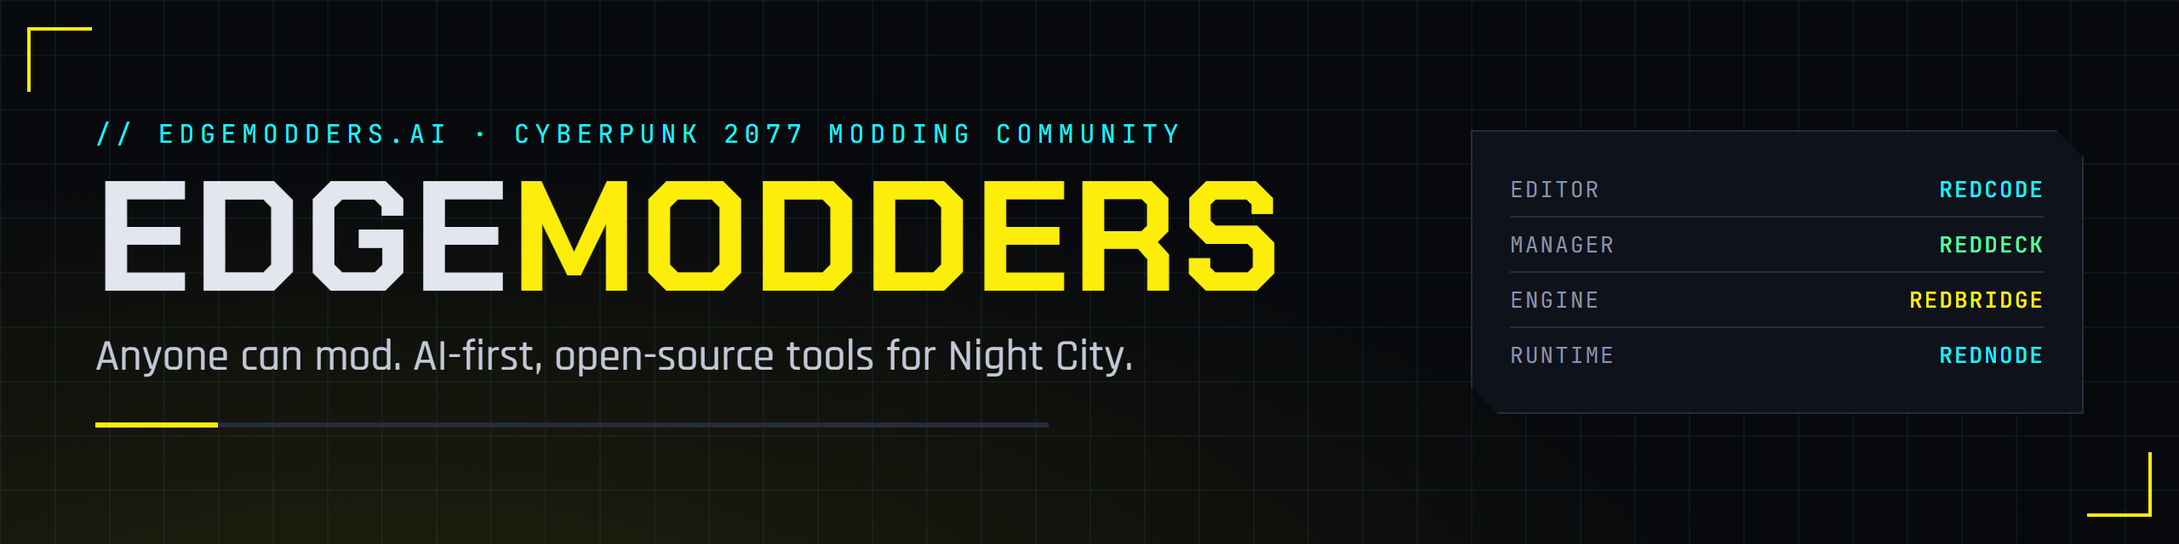
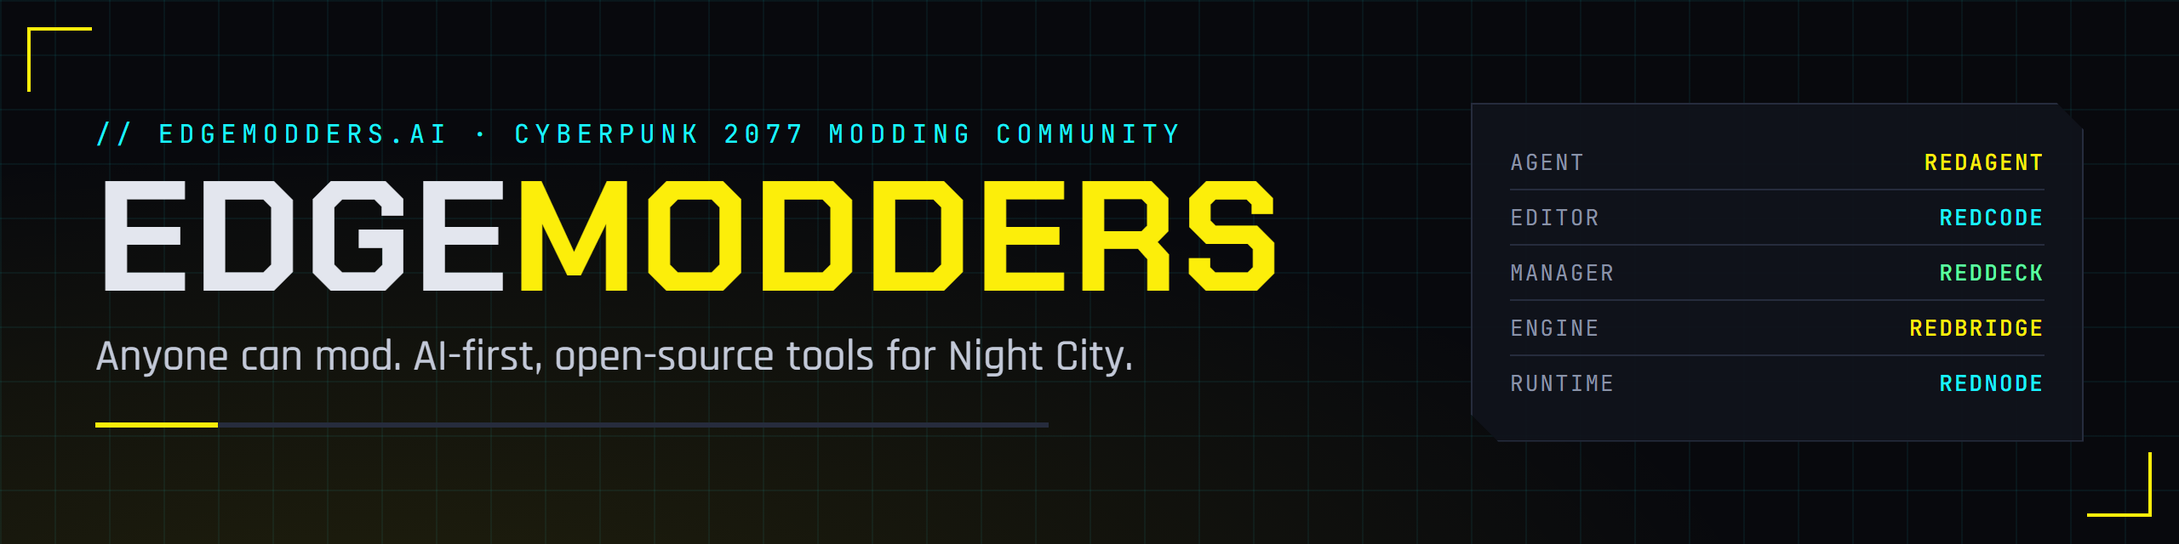
Add REDagent to the site and refresh tool statuses
REDagent, the in-game modding agent powered by Claude, gets a featured
card on the landing page, its own section on the platform page, and a
row in the community and README tool tables. The loop example now
follows REDagent's in-game test. Benefit statuses catch up with REDnode:
agent tooling, isolation and the game API work, hot reload works with
VS Code debugging still to come. Banner and social card list REDagent.

Changed region(s): [[0.875, 0.2812, 0.9375, 0.7188], [0.6875, 0.2812, 0.75, 0.7188]]

diff --git a/docs/platform.html b/docs/platform.html
@@ -14,14 +14,14 @@
 <link rel="preconnect" href="https://fonts.googleapis.com">
 <link rel="preconnect" href="https://fonts.gstatic.com" crossorigin>
 <link href="https://fonts.googleapis.com/css2?family=Chakra+Petch:wght@500;600;700&family=Rajdhani:wght@400;500;600&family=JetBrains+Mono:wght@400;500&display=swap" rel="stylesheet">
-<link rel="stylesheet" href="assets/css/site.css?v=2">
+<link rel="stylesheet" href="assets/css/site.css?v=3">
 </head>
 <body>
 
 <div class="bar"><div class="wrap">
   <span><a href="./" style="color:inherit;text-decoration:none"><span class="dot"></span><b>EDGEMODDERS</b></a> / EDGE PLATFORM</span>
   <nav>
-    <a href="./">Home</a><a href="#benefits">Benefits</a><a href="#redcode">REDcode</a><a href="#reddeck">REDdeck</a><a href="#redbridge">REDbridge</a><a href="#rednode">REDnode</a>
+    <a href="./">Home</a><a href="#benefits">Benefits</a><a href="#redagent">REDagent</a><a href="#redcode">REDcode</a><a href="#reddeck">REDdeck</a><a href="#redbridge">REDbridge</a><a href="#rednode">REDnode</a>
   </nav>
 </div></div>
 
@@ -45,13 +45,14 @@
     <thead><tr><th>Benefit</th><th>What it means for you</th><th>Status</th></tr></thead>
     <tbody>
       <tr><td>Native engine, bare-metal performance<span class="from">REDnode &middot; REDbridge</span></td><td>No emulation layer. REDnode is a native RED4ext plugin that draws with the game's own Direct3D 12 device, and simple rules run inside the game's hooks with no round trip. REDbridge runs WolvenKit's compiled C# engine directly.</td><td><span class="st wip">In progress</span></td></tr>
-      <tr><td>Mod isolation and crash protection<span class="from">REDnode</span></td><td>Mods and overlay apps run in their own process, outside the game. If one crashes, your game keeps running. The small amount of code that must run inside the game is sandboxed and time-limited.</td><td><span class="st wip">In progress</span></td></tr>
+      <tr><td>Mod isolation and crash protection<span class="from">REDnode</span></td><td>Mods and overlay apps run in their own process, outside the game. If one crashes, your game keeps running. Code that must run inside the game will be sandboxed and time-limited.</td><td><span class="st on">Working</span></td></tr>
       <tr><td>HTML overlay apps with a UI kit<span class="from">REDnode</span></td><td>Build in-game windows and HUD widgets with HTML, CSS and JavaScript, styled with a ready-made UI kit. Use any web framework, browser dev tools and npm packages instead of Lua and ImGui.</td><td><span class="st on">Working</span></td></tr>
-      <tr><td>Integrated Claude agent tooling<span class="from">REDbridge &middot; REDdeck</span></td><td>Every tool exposes what it does as calls an AI agent can make. Through MCP, Claude can browse archives, convert files, query TweakDB, pack and deploy, alongside you.</td><td><span class="st plan">Planned</span></td></tr>
-      <tr><td>Real-time hot-loading and live debugging<span class="from">REDnode &middot; REDcode</span></td><td>Change a mod and see it in the running game without a restart. Set breakpoints and evaluate code against the live game from VS Code's debugger.</td><td><span class="st plan">Planned</span></td></tr>
+      <tr><td>Integrated Claude agent tooling<span class="from">REDagent &middot; REDnode</span></td><td>REDagent, powered by Claude, writes, runs and fixes mods with you in a chat inside the game. REDnode's MCP server gives Claude Code on your PC the same tools: mod logs, overlay windows, game types and live game calls. MCP for REDbridge and REDdeck is next.</td><td><span class="st on">Working</span></td></tr>
+      <tr><td>Real-time hot-loading and live debugging<span class="from">REDnode &middot; REDcode</span></td><td>Change a mod and see it in the running game without a restart; hot reload works today. Next: breakpoints and evaluating code against the live game from VS Code's debugger.</td><td><span class="st wip">In progress</span></td></tr>
+      <tr><td>You approve every change<span class="from">REDagent &middot; REDdeck</span></td><td>REDagent shows each file change as a diff and waits for Allow. Every change it makes, and every deploy REDdeck makes, has an Undo.</td><td><span class="st on">Working</span></td></tr>
       <tr><td>Full VS Code and extension ecosystem<span class="from">REDcode &middot; REDdeck</span></td><td>EDGE lives in VS Code, so you keep its editor, Git, themes, AI assistants and thousands of extensions, including the existing redscript tooling.</td><td><span class="st on">Working</span></td></tr>
       <tr><td>WolvenKit compatible<span class="from">REDcode &middot; REDbridge</span></td><td>Opens and builds WolvenKit projects. Game files convert to JSON and back byte for byte, using WolvenKit's own engine. Move between tools freely.</td><td><span class="st on">Working</span></td></tr>
-      <tr><td>Game API built for agents<span class="from">REDnode</span></td><td>A typed API generated from the game's own type system, with a published reference. Agents and people get the same completion and docs, so an assistant writes code against real game types instead of guessing.</td><td><span class="st wip">In progress</span></td></tr>
+      <tr><td>Game API built for agents<span class="from">REDnode &middot; REDagent</span></td><td>A typed API that can call any game function, generated from the game's own type system, with a published reference. REDagent looks functions up and calls the running game, asking you first before anything that could change it.</td><td><span class="st on">Working</span></td></tr>
       <tr><td>Safe, undoable deployment<span class="from">REDdeck</span></td><td>Mods deploy with a manifest of every file placed. One click undoes it. Conflicts are shown even inside mod archives, with who wins and why.</td><td><span class="st on">Working</span></td></tr>
       <tr><td>Open source, community first<span class="from">All toolkits</span></td><td>MIT where we can, GPL-3.0 where WolvenKit requires it. EDGE works alongside RED4ext, Cyber Engine Tweaks, redscript, ArchiveXL and TweakXL.</td><td><span class="st on">Working</span></td></tr>
     </tbody>
@@ -60,8 +61,9 @@
 
 <section id="toolkits">
   <h2><span class="id">02</span>The toolkits</h2><div class="rule"></div>
-  <p>EDGE is four open-source toolkits. Each works alone; together they cover the whole life of a mod.</p>
+  <p>EDGE is five open-source toolkits. Each works alone; together they cover the whole life of a mod.</p>
   <div class="flow">
+    <div><h4>Ask</h4><p>REDagent</p><small>your modding agent</small></div>
     <div><h4>Create</h4><p>REDcode</p><small>edit with your agent</small></div>
     <div><h4>Build</h4><p>REDbridge</p><small>convert, pack</small></div>
     <div><h4>Deploy</h4><p>REDdeck</p><small>install, undo</small></div>
@@ -69,8 +71,33 @@
   </div>
 </section>
 
+<section id="redagent">
+  <h2><span class="id">03</span>Ask REDagent</h2><div class="rule"></div>
+  <div class="kit">
+    <div>
+      <div class="head"><img src="assets/tools/redagent.png" alt=""><div><div class="name">RED<span>agent</span></div><div class="role">The modding agent &middot; powered by Claude</div></div></div>
+      <p>An assistant inside Cyberpunk 2077 that writes, runs, checks and fixes REDnode mods with you, while you play. You talk to it in a chat window drawn over the game.</p>
+      <ul>
+        <li>Ask for a mod in plain words; REDagent writes it and REDnode loads it at once</li>
+        <li>Reads mod logs, overlay windows and the running game to check its work</li>
+        <li>Every file change shown as a diff first: Allow, Allow all, or Deny</li>
+        <li>Undo for every change, with backups kept on your PC</li>
+        <li>Opus for building mods, Sonnet for quick questions; each answer shows its cost</li>
+      </ul>
+      <div class="links"><a href="https://edgemodders.github.io/REDagent/">Docs</a><a href="https://github.com/Edgemodders/REDagent">GitHub</a></div>
+    </div>
+    <div class="shots">
+      <div class="shot"><div><b>Screenshot</b>REDagent chat over the game</div></div>
+      <div class="pair">
+        <div class="shot"><div><b>Screenshot</b>Change card with Allow</div></div>
+        <div class="shot"><div><b>Screenshot</b>The mod it wrote, running</div></div>
+      </div>
+    </div>
+  </div>
+</section>
+
 <section id="redcode">
-  <h2><span class="id">03</span>Create with REDcode</h2><div class="rule"></div>
+  <h2><span class="id">04</span>Create with REDcode</h2><div class="rule"></div>
   <div class="kit">
     <div>
       <div class="head"><img src="assets/tools/redcode.png" alt=""><div><div class="name">RED<span>code</span></div><div class="role">The editor</div></div></div>
@@ -95,7 +122,7 @@
 </section>
 
 <section id="reddeck">
-  <h2><span class="id">04</span>Deploy with REDdeck</h2><div class="rule"></div>
+  <h2><span class="id">05</span>Deploy with REDdeck</h2><div class="rule"></div>
   <div class="kit">
     <div>
       <div class="head"><img src="assets/tools/reddeck.png" alt=""><div><div class="name">RED<span>deck</span></div><div class="role">The mod manager</div></div></div>
@@ -120,7 +147,7 @@
 </section>
 
 <section id="redbridge">
-  <h2><span class="id">05</span>Build with REDbridge</h2><div class="rule"></div>
+  <h2><span class="id">06</span>Build with REDbridge</h2><div class="rule"></div>
   <div class="kit">
     <div>
       <div class="head"><img src="assets/tools/redbridge.png" alt=""><div><div class="name">RED<span>bridge</span></div><div class="role">The engine &amp; agent bridge</div></div></div>
@@ -129,7 +156,7 @@
         <li>Indexes a game install and searches its archives in seconds</li>
         <li>Converts game files to JSON and back, byte for byte</li>
         <li>Decodes textures, resolves hashes, reads mod archives without the game</li>
-        <li>One API for the editor and for AI agents (MCP planned)</li>
+        <li>One API for the editor and for AI agents (MCP next)</li>
       </ul>
       <div class="links"><a href="https://edgemodders.github.io/REDbridge/">Docs</a><a href="https://github.com/Edgemodders/REDbridge">GitHub</a></div>
     </div>
@@ -144,17 +171,18 @@
 </section>
 
 <section id="rednode">
-  <h2><span class="id">06</span>Run with REDnode</h2><div class="rule"></div>
+  <h2><span class="id">07</span>Run with REDnode</h2><div class="rule"></div>
   <div class="kit">
     <div>
       <div class="head"><img src="assets/tools/rednode.png" alt=""><div><div class="name">RED<span>node</span></div><div class="role">The live runtime</div></div></div>
-      <p>The runtime that puts mods in the game. Script Cyberpunk 2077 in TypeScript and JavaScript with npm, and draw HTML apps on top of the game.</p>
+      <p>The runtime that puts mods in the game, and the one REDagent writes for. Script Cyberpunk 2077 in TypeScript and JavaScript with npm, and draw HTML apps on top of the game.</p>
       <ul>
-        <li>HTML overlay apps and HUD widgets, tested in game</li>
+        <li>Node mods with hot reload, beside HTML overlay apps and HUD widgets</li>
         <li>A UI kit in the HUD style, plus the game's own UI sounds</li>
         <li>Overlay host runs outside the game, so a crash can't take it down</li>
-        <li>Game API reference generated from the game's type system</li>
-        <li>Coming: Node mods with hot reload and live debugging</li>
+        <li>A typed game API that calls any game function, with a published reference</li>
+        <li>An MCP server that lets AI agents read logs, see windows and call the game</li>
+        <li>Coming: live debugging from VS Code</li>
       </ul>
       <div class="links"><a href="https://edgemodders.github.io/REDnode/">Docs</a><a href="https://edgemodders.github.io/REDnode/overlay-apps.html">Overlay apps</a><a href="https://github.com/Edgemodders/REDnode">GitHub</a></div>
     </div>
@@ -169,7 +197,7 @@
 </section>
 
 <section id="join" class="join">
-  <h2><span class="id">07</span>Build it with us</h2><div class="rule"></div>
+  <h2><span class="id">08</span>Build it with us</h2><div class="rule"></div>
   <p class="big">Bring your <span>mod ideas.</span></p>
   <p>Veterans and beginners alike: try the toolkits, tell us what's missing, and help shape EDGE.</p>
   <div class="cta">

diff --git a/docs/index.html b/docs/index.html
@@ -14,7 +14,7 @@
 <link rel="preconnect" href="https://fonts.googleapis.com">
 <link rel="preconnect" href="https://fonts.gstatic.com" crossorigin>
 <link href="https://fonts.googleapis.com/css2?family=Chakra+Petch:wght@500;600;700&family=Rajdhani:wght@400;500;600&family=JetBrains+Mono:wght@400;500&display=swap" rel="stylesheet">
-<link rel="stylesheet" href="assets/css/site.css?v=2">
+<link rel="stylesheet" href="assets/css/site.css?v=3">
 </head>
 <body>
 
@@ -75,31 +75,38 @@
 
 <section id="loop">
   <h2><span class="id">03</span>The loop</h2><div class="rule"></div>
-  <p>Every EDGEmodders tool exposes what it does as text and as calls an AI assistant can make. Here's the kind of session the toolkit is built for:</p>
+  <p>Every EDGEmodders tool exposes what it does as text and as calls an AI agent can make. Here's a session with REDagent, the assistant inside the game:</p>
   <div class="term" role="figure" aria-label="Example session between a modder and an AI assistant">
     <div class="who you">&gt; you</div>
-    <p class="say">Make Mantis Blades do 50% more damage, and give the mod a name I can share.</p>
-    <div class="who ai">&gt; assistant</div>
-<div class="step"><i>01</i> <u>tweakdb.query</u>   Items.MantisBlades*          <b>found 6 records</b>
-<i>02</i> <u>write</u>           tweaks/sharper-mantis.yaml   <b>damage × 1.5</b>
-<i>03</i> <u>modkit.pack</u>     sharper-mantis               <b>packed</b>
-<i>04</i> <u>reddeck.deploy</u>  sharper-mantis  on           <b>1 mod deployed, 0 conflicts</b></div>
-    <p class="say">Done. "Sharper Mantis" is on. Load a save and try it. Say the word and I'll undo it.</p>
+    <p class="say">Make a mod that shows a warning when V's health drops below 30%.</p>
+    <div class="who ai">&gt; redagent</div>
+<div class="step"><i>01</i> <u>gameapi_lookup</u>  player health          <b>found the health functions</b>
+<i>02</i> <u>write</u>           low-health/main.mjs     <b>you pressed Allow</b>
+<i>03</i> <u>apps</u>            low-health              <b>loaded by hot reload</b>
+<i>04</i> <u>logs</u>            low-health              <b>running, no errors</b></div>
+    <p class="say">Done. Your low-health warning is running. Take some damage to see it, or press Undo to remove it.</p>
   </div>
-  <p class="note">// Illustrative. The calls are the shape of the REDbridge and REDdeck APIs; the full loop is still being built.</p>
+  <p class="note">// Simplified from REDagent's in-game test on 2026-10-12. The tool names are REDagent's real tools.</p>
 
   <div class="steps" style="margin-top:22px">
     <div class="panel"><h3>Describe it</h3><p>Plain words. No file formats, no jargon.</p></div>
-    <div class="panel"><h3>Build it together</h3><p>Your assistant works in the same project you can see in REDcode.</p></div>
-    <div class="panel"><h3>Try it live</h3><p>Deploy to the game, and with REDnode, change it while it runs.</p></div>
+    <div class="panel"><h3>Build it together</h3><p>REDagent writes it while you play, or works beside you in REDcode.</p></div>
+    <div class="panel"><h3>Try it live</h3><p>REDnode loads it into the running game. Change it without a restart.</p></div>
     <div class="panel"><h3>Share it</h3><p>Pack it, publish it, and help the next modder start.</p></div>
   </div>
 </section>
 
 <section id="tools">
   <h2><span class="id">04</span>The toolkit</h2><div class="rule"></div>
-  <p>Four open-source projects that work alone and work better together. Each one has its own docs site.</p>
+  <p>Five open-source projects that work alone and work better together. Each one has its own docs site.</p>
   <div class="grid g2">
+
+    <article class="panel tool feature">
+      <div class="head"><img src="assets/tools/redagent.png" alt=""><div><div class="name">RED<span>agent</span> <span class="tag y new">New</span></div><div class="role">The modding agent &middot; powered by Claude</div></div></div>
+      <p>An AI assistant inside Cyberpunk 2077. Ask for a mod in a chat window over the game, and REDagent writes it, runs it, reads its log, checks the game's answers and fixes what's wrong, while you play. Every change is shown to you first and can be undone. Uses your own Anthropic API key.</p>
+      <div class="status"><b class="g">Status:</b> writes and fixes mods in game; early developer build</div>
+      <div class="links"><a href="https://edgemodders.github.io/REDagent/">Docs</a><a href="https://github.com/Edgemodders/REDagent">GitHub</a></div>
+    </article>
 
     <article class="panel tool">
       <div class="head"><img src="assets/tools/redcode.png" alt=""><div><div class="name">RED<span>code</span></div><div class="role">The editor</div></div></div>
@@ -124,8 +131,8 @@
 
     <article class="panel tool">
       <div class="head"><img src="assets/tools/rednode.png" alt=""><div><div class="name">RED<span>node</span></div><div class="role">The live runtime</div></div></div>
-      <p>Script Cyberpunk 2077 in TypeScript and JavaScript with npm, and build in-game HTML overlay apps. Mods attach to the running game, reload without a restart, and can be debugged live from VS Code.</p>
-      <div class="status"><b class="y">Status:</b> HTML overlay apps run in game; Node mod runtime in progress</div>
+      <p>Script Cyberpunk 2077 in TypeScript and JavaScript with npm, and build in-game HTML overlay apps. Mods attach to the running game and reload without a restart. Live debugging from VS Code is next.</p>
+      <div class="status"><b class="g">Status:</b> Node mods, overlay apps and the MCP server for agents run in game</div>
       <div class="links"><a href="https://edgemodders.github.io/REDnode/">Docs</a><a href="https://edgemodders.github.io/REDnode/design.html">Design</a><a href="https://github.com/Edgemodders/REDnode">GitHub</a></div>
     </article>
 
@@ -133,7 +140,7 @@
 
   <h3 style="margin-top:32px">How they fit</h3>
   <div class="flow">
-    <div><h4>Describe</h4><p>You and your assistant</p><small>Claude, over MCP</small></div>
+    <div><h4>Describe</h4><p>You + REDagent</p><small>Claude, over MCP</small></div>
     <div><h4>Edit</h4><p>REDcode</p><small>project, game files as JSON</small></div>
     <div><h4>Build</h4><p>REDbridge</p><small>WolvenKit engine: convert, pack</small></div>
     <div><h4>Play</h4><p>REDdeck + REDnode</p><small>deploy, undo, live reload</small></div>
@@ -160,7 +167,7 @@
   <div class="grid g3">
     <div class="panel"><h3>Players with ideas</h3><p>Never modded? Perfect. Try the tools, tell us where you got stuck, and share what you made.</p></div>
     <div class="panel"><h3>Modders</h3><p>Bring your knowledge of the game's files and frameworks. Help us get the details right and teach the AI to work the way you do.</p></div>
-    <div class="panel"><h3>Tool builders</h3><p>TypeScript, C#, VS Code, MCP. Pick an issue in any of the four repos and send a pull request.</p></div>
+    <div class="panel"><h3>Tool builders</h3><p>TypeScript, C#, VS Code, MCP. Pick an issue in any of the five repos and send a pull request.</p></div>
   </div>
   <div class="cta">
     <a class="btn go ico" href="https://discord.gg/63qP3Erw43"><svg width="16" height="16" viewBox="0 0 24 24" aria-hidden="true"><path fill="currentColor" d="M20.317 4.37a19.8 19.8 0 0 0-4.885-1.515.074.074 0 0 0-.079.037c-.21.375-.444.865-.608 1.25a18.27 18.27 0 0 0-5.487 0 12.64 12.64 0 0 0-.617-1.25.077.077 0 0 0-.079-.037A19.74 19.74 0 0 0 3.677 4.37a.07.07 0 0 0-.032.027C.533 9.046-.32 13.58.099 18.058a.082.082 0 0 0 .031.056 19.9 19.9 0 0 0 5.993 3.03.078.078 0 0 0 .084-.028c.462-.63.874-1.295 1.226-1.994a.076.076 0 0 0-.041-.106 13.1 13.1 0 0 1-1.872-.892.077.077 0 0 1-.008-.128c.126-.094.252-.192.372-.291a.074.074 0 0 1 .078-.01c3.927 1.793 8.18 1.793 12.061 0a.074.074 0 0 1 .079.009c.12.099.246.198.373.292a.077.077 0 0 1-.007.128c-.598.349-1.22.645-1.873.891a.077.077 0 0 0-.041.107c.36.698.772 1.363 1.225 1.993a.076.076 0 0 0 .084.029 19.84 19.84 0 0 0 6.002-3.03.077.077 0 0 0 .032-.055c.5-5.177-.838-9.674-3.549-13.66a.061.061 0 0 0-.031-.029zM8.02 15.331c-1.182 0-2.157-1.086-2.157-2.42 0-1.332.956-2.418 2.157-2.418 1.21 0 2.176 1.095 2.157 2.419 0 1.333-.956 2.419-2.157 2.419zm7.975 0c-1.183 0-2.157-1.086-2.157-2.42 0-1.332.955-2.418 2.157-2.418 1.21 0 2.176 1.095 2.157 2.419 0 1.333-.946 2.419-2.157 2.419z"/></svg>Join our Discord</a>

diff --git a/docs/assets/css/site.css b/docs/assets/css/site.css
@@ -103,7 +103,7 @@ code { font-family: var(--mono); font-size: .8em; color: var(--yellow); backgrou
 .tool .links a:hover { text-decoration: underline; }
 
 /* how the tools fit */
-.flow { display: grid; grid-template-columns: repeat(4, 1fr); gap: 0; margin-bottom: 14px; }
+.flow { display: grid; grid-auto-flow: column; grid-auto-columns: 1fr; gap: 0; margin-bottom: 14px; }
 .flow > div { background: var(--panel); border: 1px solid var(--line); padding: 14px; min-width: 0; position: relative; }
 .flow > div + div { border-left: 0; }
 .flow h4 { margin: 0 0 6px; font-family: var(--mono); font-size: 11px; letter-spacing: .16em; text-transform: uppercase; font-weight: 500; color: var(--yellow); }
@@ -122,7 +122,7 @@ footer { margin-top: 64px; padding-top: 16px; border-top: 1px solid var(--line);
 footer p { margin: 0; max-width: 90ch; }
 
 @media (max-width: 760px) {
-  .flow { grid-template-columns: 1fr; }
+  .flow { grid-auto-flow: row; }
   .flow > div + div { border-left: 1px solid var(--line); border-top: 0; }
   .flow > div:not(:last-child)::after { content: "▼"; right: 50%; top: auto; bottom: -9px; transform: translateX(50%); }
 }
@@ -169,3 +169,5 @@ footer { align-items: center; }
 footer .brandline { display: flex; flex-wrap: wrap; align-items: center; gap: 10px 16px; }
 .btn.ico { display: inline-flex; align-items: center; gap: 10px; }
 .btn.ico svg { width: 18px; height: 18px; flex: none; }
+.tool.feature { grid-column: 1 / -1; border-color: rgba(252,238,10,.45); background: linear-gradient(180deg, rgba(252,238,10,.06), var(--panel)); }
+.tool .tag.new { font-size: 11px; vertical-align: middle; margin-left: 6px; position: relative; top: -4px; }

diff --git a/tools/brand/brand.html b/tools/brand/brand.html
@@ -66,7 +66,7 @@ h1 span { color: var(--yellow); }
 .panel .row:last-child { border-bottom: 0; }
 .panel b { font-weight: 500; }
 .y { color: var(--yellow); } .c { color: var(--cyan); } .g { color: var(--green); }
-.social .panel { display: grid; grid-template-columns: repeat(4, 1fr); gap: 0 28px; font-size: 15px; }
+.social .panel { display: grid; grid-template-columns: repeat(5, 1fr); gap: 0 24px; font-size: 15px; }
 .social .panel .row { border-bottom: 0; flex-direction: column; gap: 4px; }
 </style>
 </head>
@@ -79,6 +79,7 @@ h1 span { color: var(--yellow); }
     <div class="rule"></div>
   </div>
   <div class="panel">
+    <div class="row"><span>Agent</span><b class="y">REDagent</b></div>
     <div class="row"><span>Editor</span><b class="c">REDcode</b></div>
     <div class="row"><span>Manager</span><b class="g">REDdeck</b></div>
     <div class="row"><span>Engine</span><b class="y">REDbridge</b></div>

diff --git a/CLAUDE.md b/CLAUDE.md
@@ -1,6 +1,6 @@
 # EDGEweb: notes for Claude sessions
 
-EDGEweb is the website for https://edgemodders.ai, the home of EDGEmodders: a new Cyberpunk 2077 modding community whose message is **"Anyone can mod"**. AI assistants (Claude first) make modding possible for people without coding or modding skills. The site is a landing page that pitches the four tools and links to their Pages sites. It is one of five repos by the same owner: REDnode (runtime), REDcode (IDE), REDbridge (engine host, GPL-3.0), REDdeck (mod manager) and this one. REDnode's `CLAUDE.md` sets the shared conventions.
+EDGEweb is the website for https://edgemodders.ai, the home of EDGEmodders: a new Cyberpunk 2077 modding community whose message is **"Anyone can mod"**. AI assistants (Claude first) make modding possible for people without coding or modding skills. The site is a landing page that pitches the five tools and links to their Pages sites. It is one of six repos by the same owner: REDagent (in-game modding agent), REDnode (runtime), REDcode (IDE), REDbridge (engine host, GPL-3.0), REDdeck (mod manager) and this one. REDnode's `CLAUDE.md` sets the shared conventions.
 
 ## Site
 

diff --git a/README.md b/README.md
@@ -10,10 +10,11 @@
 
 The website for [edgemodders.ai](https://edgemodders.ai/), home of EDGEmodders: a new Cyberpunk 2077 modding community that brings AI to modding, so anyone can mod, not only people who already code.
 
-The site pitches the four EDGEmodders tools and links to their docs:
+The site pitches the five EDGEmodders tools and links to their docs:
 
 | Tool | Role | Docs |
 |---|---|---|
+| [REDagent](https://github.com/Edgemodders/REDagent) | Modding agent inside the game, powered by Claude | [edgemodders.github.io/REDagent](https://edgemodders.github.io/REDagent/) |
 | [REDcode](https://github.com/Edgemodders/REDcode) | Modding IDE on VS Code | [edgemodders.github.io/REDcode](https://edgemodders.github.io/REDcode/) |
 | [REDdeck](https://github.com/Edgemodders/REDdeck) | Mod manager | [edgemodders.github.io/REDdeck](https://edgemodders.github.io/REDdeck/) |
 | [REDbridge](https://github.com/Edgemodders/REDbridge) | WolvenKit engine host, JSON-RPC and MCP | [edgemodders.github.io/REDbridge](https://edgemodders.github.io/REDbridge/) |

diff --git a/docs/community.md b/docs/community.md
@@ -47,6 +47,7 @@ The stack is TypeScript, Node, VS Code extensions, C# (.NET) and MCP. Each repo 
 
 | Repo | What it is | Language |
 |---|---|---|
+| [REDagent](https://github.com/Edgemodders/REDagent) | Modding agent inside the game, powered by Claude | JavaScript |
 | [REDcode](https://github.com/Edgemodders/REDcode) | Modding IDE built on VS Code | TypeScript |
 | [REDdeck](https://github.com/Edgemodders/REDdeck) | Mod manager inside VS Code | TypeScript |
 | [REDbridge](https://github.com/Edgemodders/REDbridge) | WolvenKit engine host, JSON-RPC and MCP | C# |
